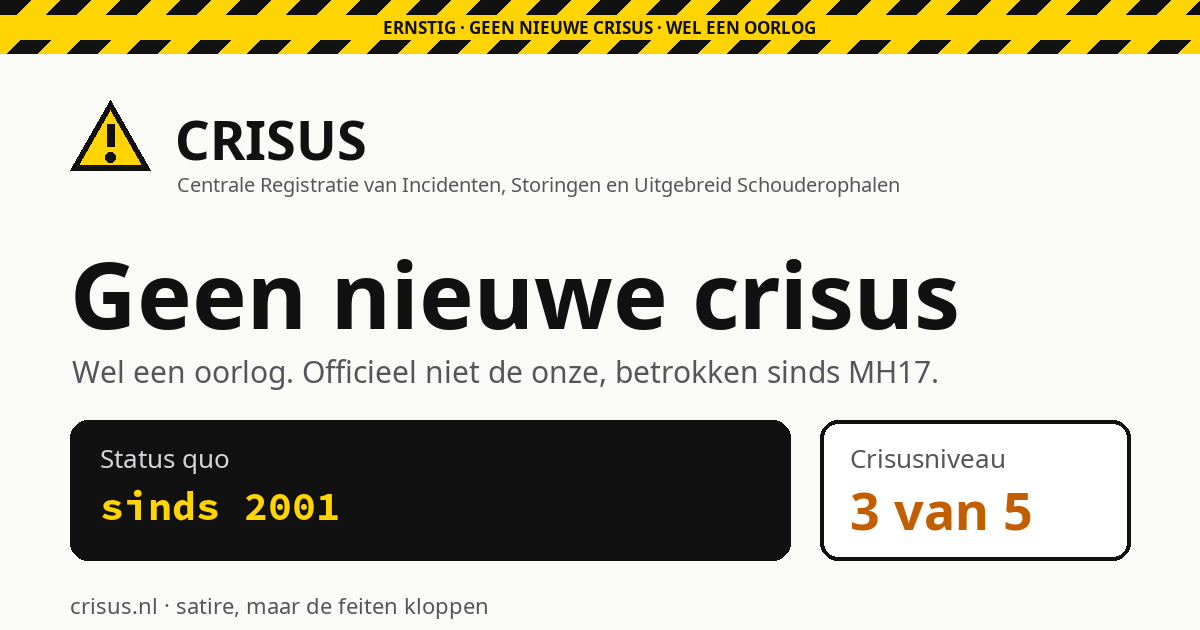
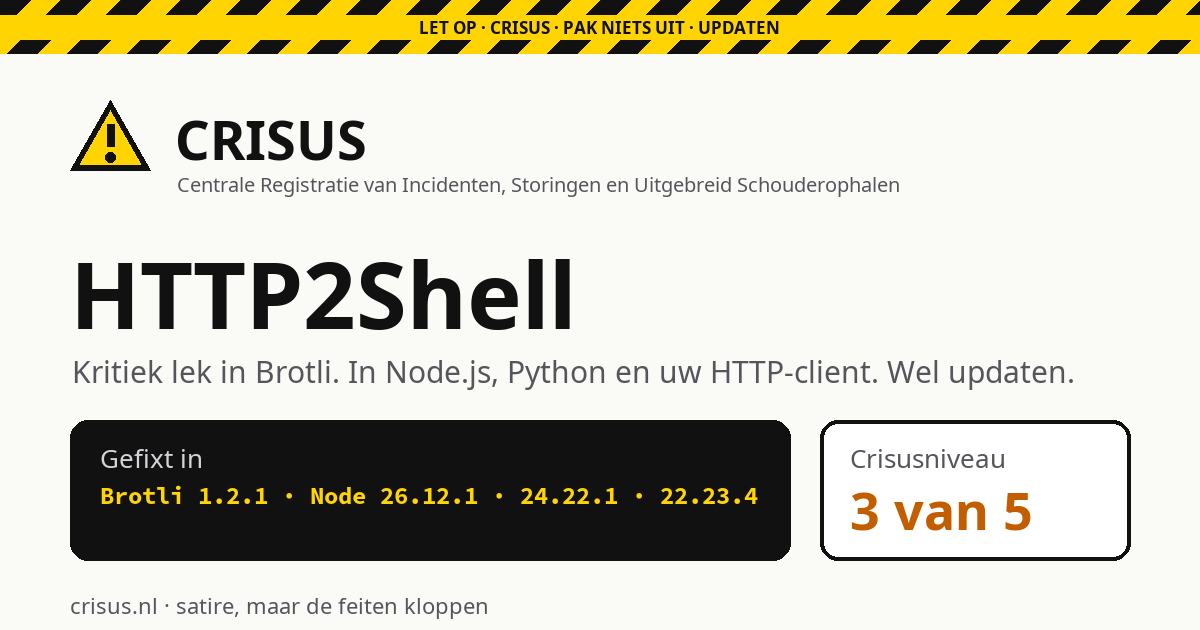
og.png: HTTP2Shell, crisusniveau 3; ?v=7

diff --git a/site/index.html b/site/index.html
@@ -14,12 +14,12 @@
 <meta property="og:locale" content="nl_NL">
 <meta property="article:published_time" content="2026-10-23T22:50:00+02:00">
 <meta property="article:modified_time" content="2026-10-24T21:00:00+02:00">
-<meta property="og:image" content="https://crisus.nl/og.png?v=6">
+<meta property="og:image" content="https://crisus.nl/og.png?v=7">
 <meta property="og:image:width" content="1200">
 <meta property="og:image:height" content="630">
 <meta property="og:image:alt" content="Crisus: HTTP2Shell, kritiek lek in Brotli. Crisusniveau 3 van 5: ernstig.">
 <meta name="twitter:card" content="summary_large_image">
-<meta name="twitter:image" content="https://crisus.nl/og.png?v=6">
+<meta name="twitter:image" content="https://crisus.nl/og.png?v=7">
 <meta name="twitter:title" content="Crisus · HTTP2Shell: kritiek lek in Brotli">
 <meta name="twitter:description" content="HTTP2Shell: een kritiek lek in Brotli, in Node.js, Python en uw HTTP-client. De patch is uit. Satire, maar de feiten kloppen.">
 <meta name="theme-color" content="#ffd400">

diff --git a/site/uk/index.html b/site/uk/index.html
@@ -12,12 +12,12 @@
 <meta property="og:type" content="website">
 <meta property="og:site_name" content="Crisus">
 <meta property="og:locale" content="uk_UA">
-<meta property="og:image" content="https://crisus.nl/og.png?v=6">
+<meta property="og:image" content="https://crisus.nl/og.png?v=7">
 <meta property="og:image:width" content="1200">
 <meta property="og:image:height" content="630">
 <meta property="og:image:alt" content="Crisus: нової кризи немає, але триває війна. Рівень кризи 3 з 5.">
 <meta name="twitter:card" content="summary_large_image">
-<meta name="twitter:image" content="https://crisus.nl/og.png?v=6">
+<meta name="twitter:image" content="https://crisus.nl/og.png?v=7">
 <meta name="theme-color" content="#ffd400">
 <link rel="canonical" href="https://crisus.nl/uk/">
 <link rel="alternate" hreflang="nl" href="https://crisus.nl/">

diff --git a/site/en/index.html b/site/en/index.html
@@ -12,12 +12,12 @@
 <meta property="og:type" content="website">
 <meta property="og:site_name" content="Crisus">
 <meta property="og:locale" content="en_GB">
-<meta property="og:image" content="https://crisus.nl/og.png?v=6">
+<meta property="og:image" content="https://crisus.nl/og.png?v=7">
 <meta property="og:image:width" content="1200">
 <meta property="og:image:height" content="630">
 <meta property="og:image:alt" content="Crisus: no new crisis, but a war. Crisis level 3 of 5: serious.">
 <meta name="twitter:card" content="summary_large_image">
-<meta name="twitter:image" content="https://crisus.nl/og.png?v=6">
+<meta name="twitter:image" content="https://crisus.nl/og.png?v=7">
 <meta name="theme-color" content="#ffd400">
 <link rel="canonical" href="https://crisus.nl/en/">
 <link rel="alternate" hreflang="nl" href="https://crisus.nl/">
